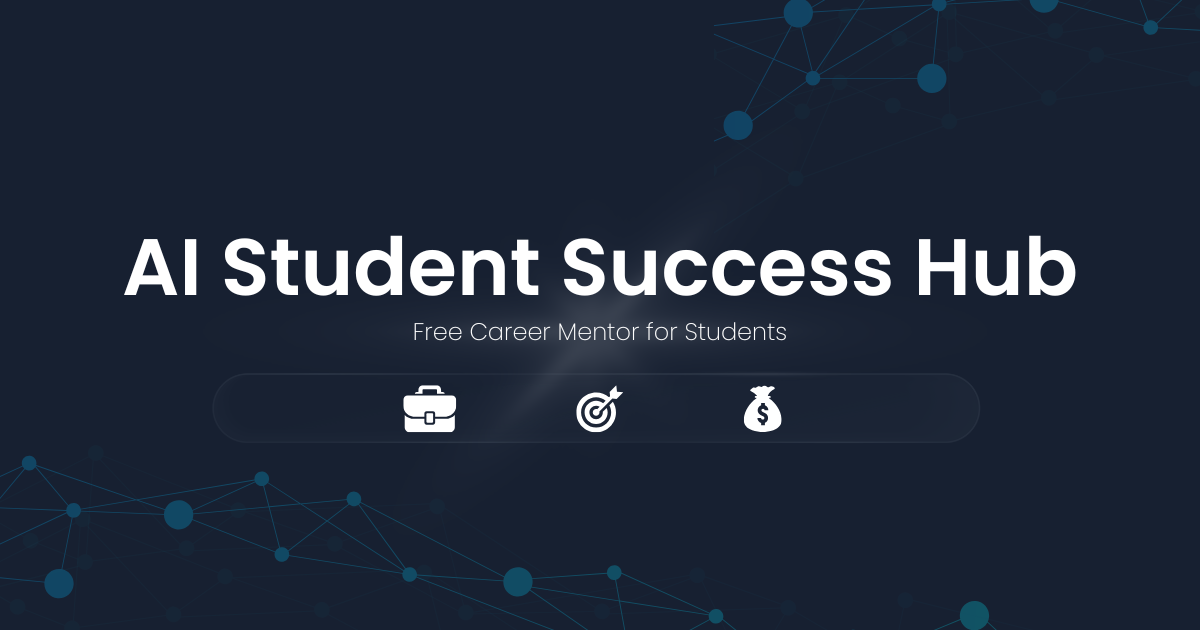
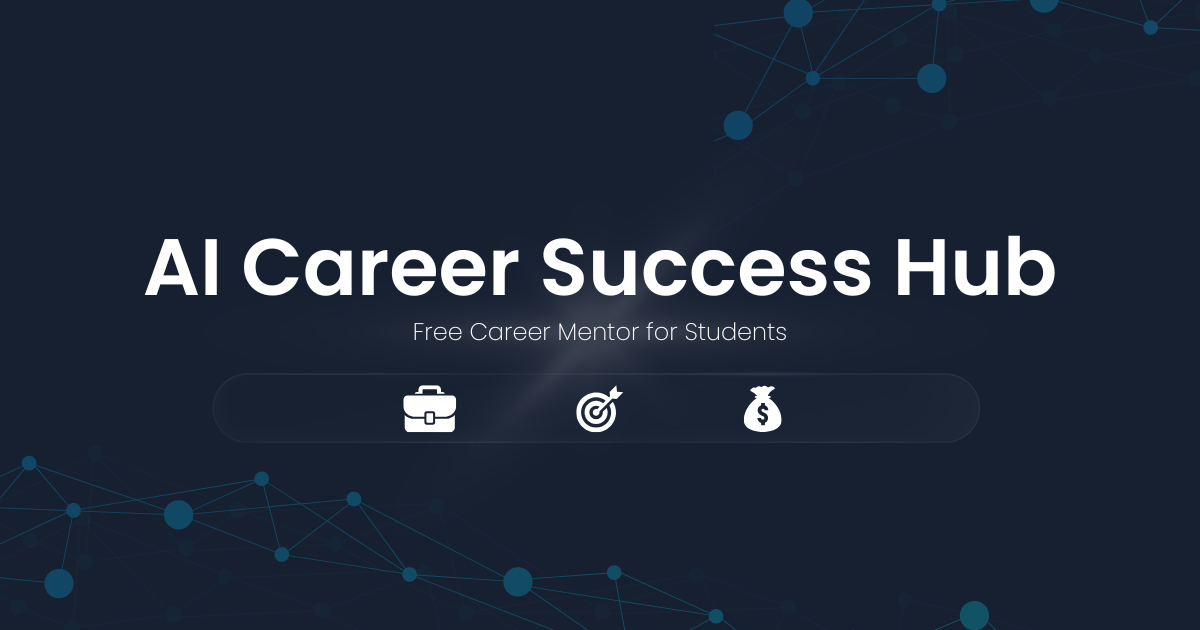
Fix branding: Update all student-specific text to career-focused
Changes:
- Navigation: 'AI Student Hub'  'AI Career Hub' (  )
- Homepage button: 'Student Success Blog'  'Career Success Blog'
- Blog landing: 'Student Success Blog'  'Career Success Blog'
- Blog meta: Updated to target job seekers + professionals
- Existing blog post: Broadened from college students to all audiences
- Post title: Now emphasizes -5K/month income potential
- Removed student-specific language throughout

All branding now consistent with career-focused positioning.

Changed region(s): [[0.0925, 0.3619, 0.8942, 0.4825]]

diff --git a/app/blog/page.tsx b/app/blog/page.tsx
@@ -3,8 +3,8 @@ import Link from "next/link";
 import { Calendar, ArrowRight } from "lucide-react";
 
 export const metadata: Metadata = {
-  title: "Blog - Career & Success Tips for Students",
-  description: "Free guides on side hustles, scholarships, resume tips, and career advice for college students",
+  title: "Blog - Career Advice, Salary Tips & Side Hustles",
+  description: "Free guides on salary negotiation, side hustles, resume tips, and career advice for job seekers and professionals",
 };
 
 const blogPosts = [
@@ -24,9 +24,9 @@ export default function BlogPage() {
     <main className="min-h-screen bg-slate-950 text-gray-100">
       <div className="container mx-auto px-4 py-12 max-w-6xl">
         <header className="mb-12 text-center">
-          <h1 className="text-5xl font-bold mb-4 text-blue-400">Student Success Blog</h1>
+          <h1 className="text-5xl font-bold mb-4 text-blue-400">Career Success Blog</h1>
           <p className="text-xl text-gray-400">
-            Actionable guides on earning money, advancing your career, and succeeding as a student
+            Actionable guides on salary negotiation, side hustles, career advancement, and professional growth
           </p>
         </header>
 

diff --git a/components/Navigation.tsx b/components/Navigation.tsx
@@ -21,8 +21,8 @@ export default function Navigation() {
         <div className="flex items-center justify-between h-16">
           {/* Logo */}
           <Link href="/" className="flex items-center gap-2 font-bold text-xl text-blue-400 hover:text-blue-300 transition-colors">
-            <span>🎓</span>
-            <span className="hidden sm:inline">AI Student Hub</span>
+            <span>🎯</span>
+            <span className="hidden sm:inline">AI Career Hub</span>
             <span className="sm:hidden">Hub</span>
           </Link>
 

diff --git a/app/page.tsx b/app/page.tsx
@@ -113,7 +113,7 @@ export default function Home() {
               href="/blog"
               className="px-6 py-3 bg-slate-800 text-gray-100 font-semibold rounded-lg hover:bg-slate-700 transition-colors border border-slate-700"
             >
-              📚 Student Success Blog
+              📚 Career Success Blog
             </Link>
           </div>
         </div>
